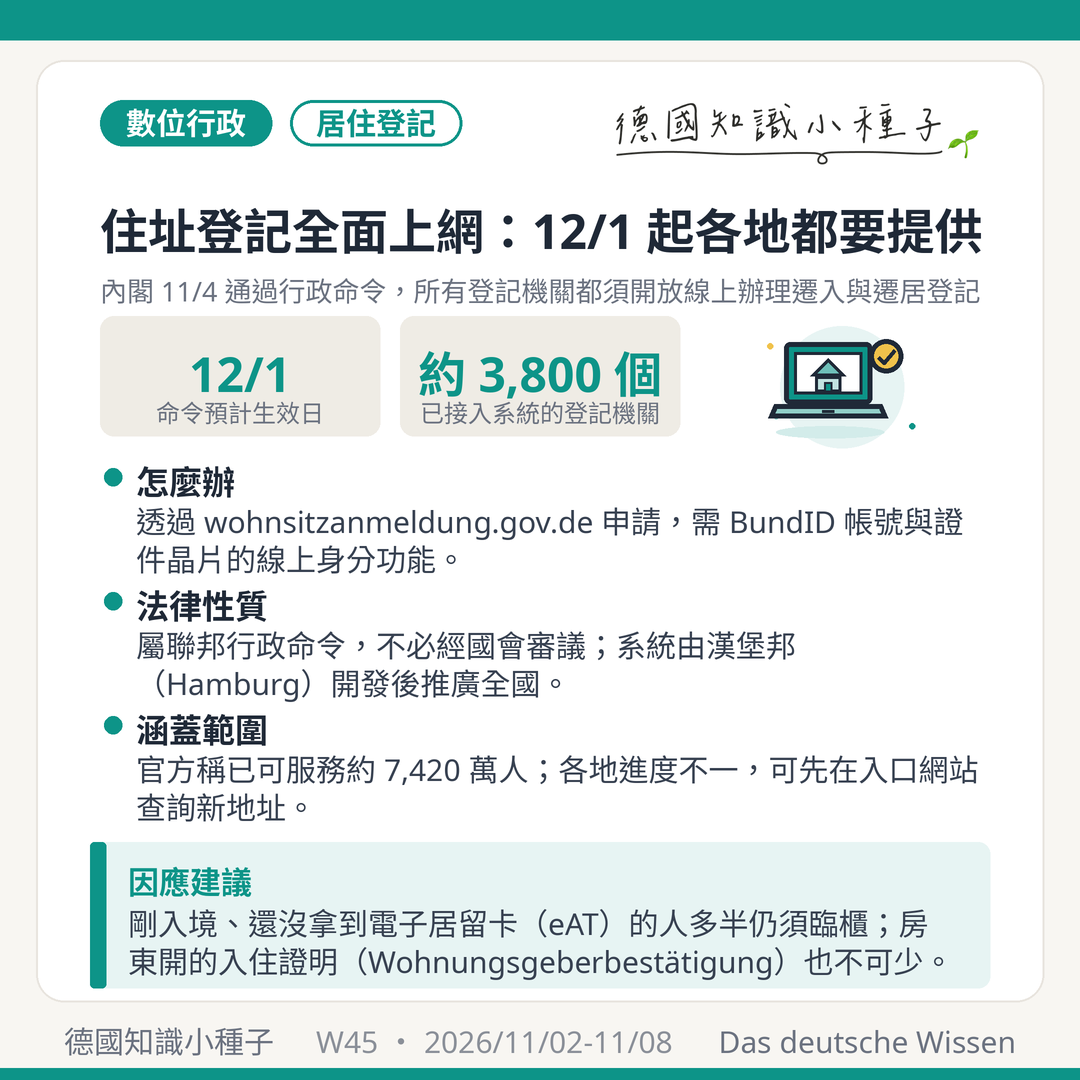
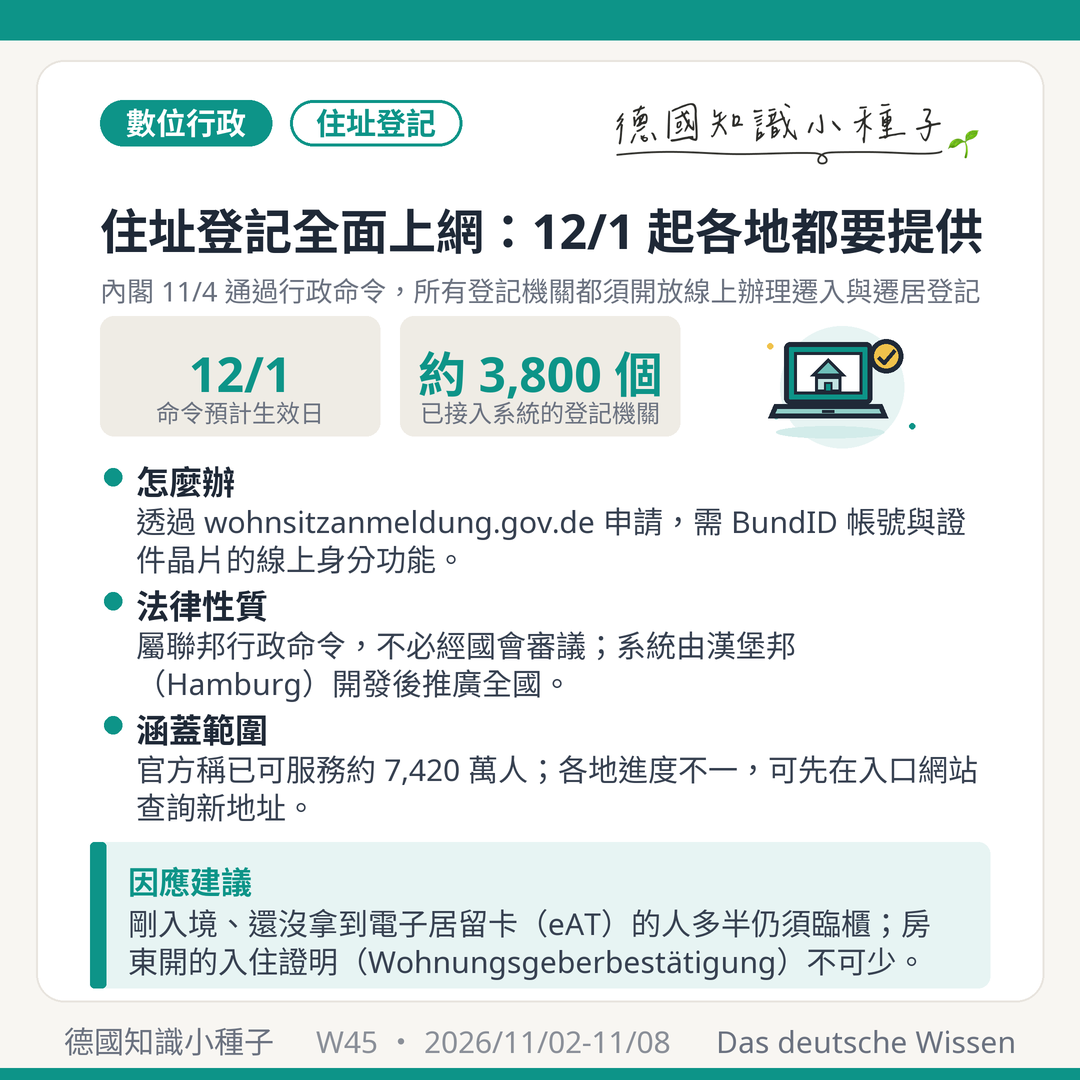
W45 更新：駕照改革 11/5 通過（生效日 2027/7/1、特殊路況課改不定趟數）＋卡1標籤統一＋排程改 11/7 21:30
- 卡4 重產並改名 W45_圖卡4_駕照改革通過.png：依 Tagesspiegel（dpa）、t-online 更正
  生效日（2027 年初 → 2027/7/1）、特殊路況課（12→3 趟 → 不再規定固定趟數）、補親友陪練條件
- 卡1 標籤「居住登記」→「住址登記」，與標題一致
- data.js：駕照段落改寫、補今日來源；卡1 補 eAT 適用說明；刪除卡5 無來源的推論句
- FB／IG／Threads 三版與 posts.json 同步；排程改 2026-11-07 21:30
- 重跑 build（weekly-digest.html、feed.xml、sitemap.xml）

diff --git a/posts/weekly-digest.html b/posts/weekly-digest.html
@@ -6,13 +6,13 @@
 <meta name="viewport" content="width=device-width, initial-scale=1.0" />
 <meta name="referrer" content="strict-origin-when-cross-origin" />
 <title>德國知識小種子週報精選 | 德國知識小種子</title>
-<meta name="description" content="先看日常：內閣 11 月 4 日通過行政命令，預計 12 月 1 日起全國所有登記機關都須透過 wohnsitzanmeldung.gov.de 提供線上住址登記（Anmeldung），已接入約 3,800 個機關、可服務約 7,420 萬人，持電子居留卡（eAT）者可用線上身分功能辦理；聯邦議院 11 月 5 日表決" />
+<meta name="description" content="先看日常：內閣 11 月 4 日通過行政命令，預計 12 月 1 日起全國所有登記機關都須透過 wohnsitzanmeldung.gov.de 提供線上住址登記（Anmeldung），已接入約 3,800 個機關、可服務約 7,420 萬人，持電子居留卡（eAT）者可用線上身分功能辦理；聯邦議院 11 月 5 日通過" />
 <meta name="robots" content="index, follow" />
 <link rel="canonical" href="https://taiwanese-in-germany.com/posts/weekly-digest.html" />
 <meta property="og:type" content="article" />
 <meta property="og:site_name" content="德國知識小種子 Das deutsche Wissen" />
 <meta property="og:title" content="德國知識小種子週報精選 | 德國知識小種子" />
-<meta property="og:description" content="先看日常：內閣 11 月 4 日通過行政命令，預計 12 月 1 日起全國所有登記機關都須透過 wohnsitzanmeldung.gov.de 提供線上住址登記（Anmeldung），已接入約 3,800 個機關、可服務約 7,420 萬人，持電子居留卡（eAT）者可用線上身分功能辦理；聯邦議院 11 月 5 日表決" />
+<meta property="og:description" content="先看日常：內閣 11 月 4 日通過行政命令，預計 12 月 1 日起全國所有登記機關都須透過 wohnsitzanmeldung.gov.de 提供線上住址登記（Anmeldung），已接入約 3,800 個機關、可服務約 7,420 萬人，持電子居留卡（eAT）者可用線上身分功能辦理；聯邦議院 11 月 5 日通過" />
 <meta property="og:url" content="https://taiwanese-in-germany.com/posts/weekly-digest.html" />
 <meta property="og:image" content="https://taiwanese-in-germany.com/assets/images/2026/weekly/W45_圖卡1_住址登記全面上網.png" />
 <meta property="og:locale" content="zh_TW" />
@@ -23,9 +23,9 @@
 <meta property="article:tag" content="時事" />
 <meta name="twitter:card" content="summary_large_image" />
 <meta name="twitter:title" content="德國知識小種子週報精選 | 德國知識小種子" />
-<meta name="twitter:description" content="先看日常：內閣 11 月 4 日通過行政命令，預計 12 月 1 日起全國所有登記機關都須透過 wohnsitzanmeldung.gov.de 提供線上住址登記（Anmeldung），已接入約 3,800 個機關、可服務約 7,420 萬人，持電子居留卡（eAT）者可用線上身分功能辦理；聯邦議院 11 月 5 日表決" />
+<meta name="twitter:description" content="先看日常：內閣 11 月 4 日通過行政命令，預計 12 月 1 日起全國所有登記機關都須透過 wohnsitzanmeldung.gov.de 提供線上住址登記（Anmeldung），已接入約 3,800 個機關、可服務約 7,420 萬人，持電子居留卡（eAT）者可用線上身分功能辦理；聯邦議院 11 月 5 日通過" />
 <meta name="twitter:image" content="https://taiwanese-in-germany.com/assets/images/2026/weekly/W45_圖卡1_住址登記全面上網.png" />
-<script type="application/ld+json">{"@context":"https://schema.org","@type":"BlogPosting","headline":"德國知識小種子週報精選","description":"先看日常：內閣 11 月 4 日通過行政命令，預計 12 月 1 日起全國所有登記機關都須透過 wohnsitzanmeldung.gov.de 提供線上住址登記（Anmeldung），已接入約 3,800 個機關、可服務約 7,420 萬人，持電子居留卡（eAT）者可用線上身分功能辦理；聯邦議院 11 月 5 日表決","image":"https://taiwanese-in-germany.com/assets/images/2026/weekly/W45_圖卡1_住址登記全面上網.png","url":"https://taiwanese-in-germany.com/posts/weekly-digest.html","datePublished":"2026-11-08","dateModified":"2026-11-08","author":{"@type":"Person","name":"德國知識小種子","url":"https://taiwanese-in-germany.com"},"publisher":{"@type":"Organization","name":"德國知識小種子 Das deutsche Wissen","url":"https://taiwanese-in-germany.com","logo":{"@type":"ImageObject","url":"https://taiwanese-in-germany.com/assets/logo.png"}},"mainEntityOfPage":{"@type":"WebPage","@id":"https://taiwanese-in-germany.com/posts/weekly-digest.html"},"inLanguage":"zh-TW","keywords":"週報, 德國政策, 時事"}</script>
+<script type="application/ld+json">{"@context":"https://schema.org","@type":"BlogPosting","headline":"德國知識小種子週報精選","description":"先看日常：內閣 11 月 4 日通過行政命令，預計 12 月 1 日起全國所有登記機關都須透過 wohnsitzanmeldung.gov.de 提供線上住址登記（Anmeldung），已接入約 3,800 個機關、可服務約 7,420 萬人，持電子居留卡（eAT）者可用線上身分功能辦理；聯邦議院 11 月 5 日通過","image":"https://taiwanese-in-germany.com/assets/images/2026/weekly/W45_圖卡1_住址登記全面上網.png","url":"https://taiwanese-in-germany.com/posts/weekly-digest.html","datePublished":"2026-11-08","dateModified":"2026-11-08","author":{"@type":"Person","name":"德國知識小種子","url":"https://taiwanese-in-germany.com"},"publisher":{"@type":"Organization","name":"德國知識小種子 Das deutsche Wissen","url":"https://taiwanese-in-germany.com","logo":{"@type":"ImageObject","url":"https://taiwanese-in-germany.com/assets/logo.png"}},"mainEntityOfPage":{"@type":"WebPage","@id":"https://taiwanese-in-germany.com/posts/weekly-digest.html"},"inLanguage":"zh-TW","keywords":"週報, 德國政策, 時事"}</script>
 <script type="application/ld+json">{"@context":"https://schema.org","@type":"BreadcrumbList","itemListElement":[{"@type":"ListItem","position":1,"name":"首頁","item":"https://taiwanese-in-germany.com/"},{"@type":"ListItem","position":2,"name":"德國時事","item":"https://taiwanese-in-germany.com/category.html?cat=%E5%BE%B7%E5%9C%8B%E6%99%82%E4%BA%8B"},{"@type":"ListItem","position":3,"name":"德國知識小種子週報精選","item":"https://taiwanese-in-germany.com/posts/weekly-digest.html"}]}</script>
 <link rel="stylesheet" href="/css/style.css" />
 <link rel="alternate" type="application/rss+xml" title="德國知識小種子 RSS" href="/feed.xml" />
@@ -132,14 +132,14 @@
     <div class="post-header__meta">
       <span>2026年11月8日 發布</span>
       <span class="post-header__sep">·</span>
-      <span>532 分鐘閱讀</span>
+      <span>533 分鐘閱讀</span>
     </div>
     <hr class="post-header__divider" />
   </header>
   <article class="post-content"><nav class="post-toc" aria-label="本篇目錄">
   <p class="post-toc__title">快速跳轉</p>
   <ul>
-    <li><a href="#nov2-8">11月2日–8日：住址登記全面上網（內閣 11/4 通過行政命令、預計 12/1 生效，所有登記機關須開放線上遷入與遷居登記，已接入約 3,800 個機關、需 BundID 與線上身分功能）、Schaeffler 再減 2,660 個職位並關閉德國四處據點（歐洲共減 3,460 個職位、原則上不做經營性解僱、2030 年起每年省 3 億歐元、董事會自減 10% 薪資，汽車業就業 69.15 萬人創 2005 年來新低）、油價上限法草案（須連三週高於其他歐盟國家平均 5 個百分點以上才啟動、每次最長 3 個月，bft 與 DGB 都批評；燃油稅減免 12/31 到期）、駕照改革進入院會表決（平均約 3,400 €，理論課可線上、特殊路況課 12 趟改 3 趟、親友可陪練）、西巴爾幹工作名額減半（每年 5 萬降到 2.5 萬、2027 年起適用，營建業估少約 9,000 人）</a></li>
+    <li><a href="#nov2-8">11月2日–8日：住址登記全面上網（內閣 11/4 通過行政命令、預計 12/1 生效，所有登記機關須開放線上遷入與遷居登記，已接入約 3,800 個機關、需 BundID 與線上身分功能）、Schaeffler 再減 2,660 個職位並關閉德國四處據點（歐洲共減 3,460 個職位、原則上不做經營性解僱、2030 年起每年省 3 億歐元、董事會自減 10% 薪資，汽車業就業 69.15 萬人創 2005 年來新低）、油價上限法草案（須連三週高於其他歐盟國家平均 5 個百分點以上才啟動、每次最長 3 個月，bft 與 DGB 都批評；燃油稅減免 12/31 到期）、駕照改革通過（平均約 3,400 €，理論課可線上、特殊路況課不再規定 12 趟、親友可陪練，主要新規 2027/7/1 生效）、西巴爾幹工作名額減半（每年 5 萬降到 2.5 萬、2027 年起適用，營建業估少約 9,000 人）</a></li>
     <li><a href="#oct26-nov1">10月26日–11月1日：十一月新制（11/1 起歐盟外小包裹在 3 € 定額關稅之外每種商品再加收 2 € 處理費、11/20 起「先買後付」與 200 € 以下小額貸款須審查信用、德鐵家庭票常態化最多 5 人 IC／ICE 來回 99.99 €、汽車保險換約解約信須 11/30 前送達）、金屬電機業 11/1 起可發動警告性罷工（約 370 萬名員工，資方 10/27 首度出價 2027 年一次性給付與 2028 年 7 月調薪 1.3%，IG Metall 要求 12 個月加薪 5%）、賓士下修財測（第三季中國銷量年減 31%、轎車利潤率目標從 3–5% 降到 2–3%，12 月起再以資遣方案縮減數千個行政職位）、德日聯合聲明重申台海和平穩定（Merz 10/26–30 訪新加坡、日本、南韓，與高市早苗簽署關鍵原物料意向書；Steinmeier 同週國事訪問中國、促習近平縮減貿易順差）、景氣回溫（十月通膨初值降到 2.8%、第三季 GDP 季增 0.2%、ifo 景氣指數連升第六個月到 90.2 點）、核廢料最終處置場候選範圍縮到國土 5% 以下（BGE 10/27 公布、5 個邦完全出局、2027 年底提出候選區域）</a></li>
     <li><a href="#oct19-25">10月19日–25日：週日凌晨調回冬令時間（10/25 凌晨 3:00 撥回 2:00、台德時差變 7 小時，歐盟廢除案 2019 年起卡在理事會）、明年瓦斯費恐漲 10–20%（九月生產者物價年增 6.7% 為 2023 年 3 月以來最大、能源年增 14.9%，Verivox 預估 1 月起依方案調漲、年用 2 萬度家庭多付 250–500 €，基本供應調價須 11/20 前通知）、柏林擬將大房東約 16 萬戶收歸公有（柏林邦〔Berlin〕SPD 與綠黨 10/19 同意與左翼黨組閣談判，持有逾 1 萬戶的企業超出部分依基本法第 15 條轉為公有、補償金上限 160 億歐元，Vonovia 稱違憲）、福斯傳凍薪到 2030 年（《南德日報》10/19 披露、IG Metall 證實，全球約 66 萬名員工，公司不評論；金屬電機業和平義務 10/31 到期）、Bosch 汽車事業拆成子公司（10/22 宣布 Mobility 與三個中央服務單位改組為 4 家全資子公司、約 6.25 萬名在德員工 2027/8/1 移轉，不另外裁員）、45 年免扣減退休的育兒與照護年資恐不再採計（聯盟黨構想、SPD 反對，退休改革恐延到 2027 年）、菸稅漲價法因條文疏失 10/21 提前生效（海關暫不執行、菸價暫不變；2030 年一包約 11.78 €）、投資高峰會企業承諾約 2,300 億歐元（經濟部統計 2,286 億歐元、不少為舊案）</a></li>
     <li><a href="#oct12-18">10月12日–18日：健保附加保費 2027 年預估維持 2.9%（健保估算小組 10/14 公布，但各健保公司實際平均已達約 3.13%，調漲時可行使特別終止權）、早鳥退休金 10/16 三讀通過（國家從孩子 6 歲起每月存 10 €、合計 1,440 €，2020 年出生者最先納入，仍待聯邦參議院）、含糖飲料稅 10/14 過內閣（每 100 毫升含糖 5 公克以上每公升 26 歐分、8 公克以上 32 歐分，2027 年 7 月 1 日上路、稅收用於穩定健保）、BMW 自願離職方案開跑（2027 年底前全球縮約 8,000 個職位、據報約 4 萬名德國員工可查看方案；賓士傳 12 月重啟第二輪、福斯終止十份團體協約）、北溪管線爆炸案 10/14 在漢堡開審（烏克蘭籍被告 Serhij K.，辯方主張職務豁免）、聯邦國防軍衛勤團 10 人涉毒品與性不當行為遭調查（薩克森-安哈特邦〔Sachsen-Anhalt〕Weißenfels 駐地）</a></li>
@@ -173,14 +173,14 @@
   </ul>
 </nav>
 
-<h2 id="nov2-8">11月2日–8日：住址登記全面上網（內閣 11/4 通過行政命令、預計 12/1 生效，所有登記機關須開放線上遷入與遷居登記，已接入約 3,800 個機關）、Schaeffler 再減 2,660 個職位並關閉德國四處據點（歐洲共減 3,460 個職位、原則上不做經營性解僱、2030 年起每年省 3 億歐元，董事會自減 10% 薪資）、油價上限法草案出爐（須連續三週高於其他歐盟國家平均 5 個百分點以上才啟動、每次最長 3 個月，DGB 與加油站業者同聲批評）、駕照改革進入表決（平均花費約 3,400 €，理論課可線上、12 趟特殊路況課改為 3 趟、親友可陪練）、西巴爾幹工作名額減半（每年 5 萬降到 2.5 萬、2027 年起適用，營建業估少約 9,000 人）</h2>
-<p>這週有兩件和<strong>日常生活</strong>直接相關的行政改革：內閣 11 月 4 日通過命令，要求全國所有登記機關從 12 月起都得提供<strong>線上住址登記（Anmeldung）</strong>；聯邦議院則在 11 月 5 日表決<strong>駕照改革</strong>，目標是把平均約 3,400 € 的考照費用壓下來。<strong>汽車產業</strong>再傳裁員：供應商 Schaeffler 11 月 3 日宣布在德國再減 2,660 個職位、關閉四處據點，而聯邦統計局數據顯示，汽車業就業已降到 2005 年有統計以來最低。<strong>荷包方面</strong>，經濟部的《燃料最高價格法》草案曝光，但啟動門檻之高讓工會與業者都質疑它「幾乎不會生效」；眼前更有感的反而是燃油稅減免 12 月底到期。最後，內閣也不顧經濟界、聯邦勞動署與七個邦反對，把西巴爾幹國家的工作名額砍半。</p>
+<h2 id="nov2-8">11月2日–8日：住址登記全面上網（內閣 11/4 通過行政命令、預計 12/1 生效，所有登記機關須開放線上遷入與遷居登記，已接入約 3,800 個機關）、Schaeffler 再減 2,660 個職位並關閉德國四處據點（歐洲共減 3,460 個職位、原則上不做經營性解僱、2030 年起每年省 3 億歐元，董事會自減 10% 薪資）、油價上限法草案出爐（須連續三週高於其他歐盟國家平均 5 個百分點以上才啟動、每次最長 3 個月，DGB 與加油站業者同聲批評）、駕照改革通過（平均花費約 3,400 €，理論課可線上、特殊路況課不再規定 12 趟、親友可陪練）、西巴爾幹工作名額減半（每年 5 萬降到 2.5 萬、2027 年起適用，營建業估少約 9,000 人）</h2>
+<p>這週有兩件和<strong>日常生活</strong>直接相關的行政改革：內閣 11 月 4 日通過命令，要求全國所有登記機關從 12 月起都得提供<strong>線上住址登記（Anmeldung）</strong>；聯邦議院則在 11 月 5 日通過<strong>駕照改革</strong>，目標是把平均約 3,400 € 的考照費用壓下來。<strong>汽車產業</strong>再傳裁員：供應商 Schaeffler 11 月 3 日宣布在德國再減 2,660 個職位、關閉四處據點，而聯邦統計局數據顯示，汽車業就業已降到 2005 年有統計以來最低。<strong>荷包方面</strong>，經濟部的《燃料最高價格法》草案曝光，但啟動門檻之高讓工會與業者都質疑它「幾乎不會生效」；眼前更有感的反而是燃油稅減免 12 月底到期。最後，內閣也不顧經濟界、聯邦勞動署與七個邦反對，把西巴爾幹國家的工作名額砍半。</p>
 
 <img src="/assets/images/2026/weekly/W45_圖卡1_住址登記全面上網.png" alt="德國住址登記全面上網 Elektronische Wohnsitzanmeldung 聯邦內閣2026年11月4日通過IT元件命令IT-Komponentenverordnung 預計12月1日生效 所有登記機關Meldebehörde須透過wohnsitzanmeldung.gov.de提供線上遷入與遷居登記 已接入約3800個登記機關 可服務約7420萬人 需BundID帳號與線上身分功能Online-Ausweis 系統由漢堡邦Hamburg開發 電子居留卡eAT 入住證明Wohnungsgeberbestätigung">
 <h3>住址登記全面上網：12 月 1 日起，各地登記機關都要提供線上 Anmeldung</h3>
 <p><strong>發生什麼事：</strong>搬家後兩週內要辦的住址登記（Anmeldung／Ummeldung），一直是在德生活最常碰到、也最難預約的行政手續之一。聯邦內閣 <strong>11 月 4 日</strong>通過由數位部長 Wildberger 提出的<strong>「IT 元件命令」（IT-Komponentenverordnung）</strong>，要求全國<strong>所有登記機關（Meldebehörde）</strong>都必須透過入口網站 <strong>wohnsitzanmeldung.gov.de</strong> 提供線上遷入與遷居登記。命令預計 <strong>12 月 1 日</strong>生效；因為是聯邦行政命令，不必經聯邦議院與聯邦參議院審議。</p>
 <p><strong>現在做到哪裡：</strong>這套系統由<strong>漢堡邦（Hamburg）</strong>開發，依各邦「一處開發、全國共用」（Einer für Alle）的分工推廣。漢堡邦政府 5 月公布時約 6,276 萬人可以使用；依這次的官方說法，系統已接入<strong>逾 3,800 個登記機關、可服務約 7,420 萬人</strong>。不過各地上線進度仍不一致，也有媒體引述入口網站資料，指仍有相當比例的登記機關尚未加入；命令生效後，何時真正「每一處都能用」，官方並未給出確切日期。最實際的做法是先到入口網站輸入新地址，查詢是否已經支援。</p>
-<p><strong>怎麼用、誰能用：</strong>線上辦理需要 <strong>BundID 帳號</strong>，並以證件晶片的<strong>線上身分功能（Online-Ausweis）</strong>驗證身分。德國身分證、歐盟公民的 eID 卡，以及非歐盟公民的<strong>電子居留卡（eAT）</strong>都有這項晶片功能，但需先啟用並設定 PIN 碼。換句話說，<strong>已經持有電子居留卡、在德國境內搬家的人</strong>最能受惠；<strong>剛入境、手上只有護照與簽證的人</strong>，多半仍須預約臨櫃辦理首次登記。此外，房東或屋主開立的<strong>入住證明（Wohnungsgeberbestätigung）</strong>是法定文件，線上辦理同樣不能少。</p>
+<p><strong>怎麼用、誰能用：</strong>線上辦理需要 <strong>BundID 帳號</strong>，並以證件晶片的<strong>線上身分功能（Online-Ausweis）</strong>驗證身分。德國身分證、歐盟公民的 eID 卡，以及非歐盟公民的<strong>電子居留卡（eAT）</strong>都有這項晶片功能，但需先啟用並設定 PIN 碼。柏林等地的說明已明列可用電子居留卡，但也有不少登記機關的說明只寫到身分證與 eID 卡，辦理前最好先確認新住址所屬的機關是否接受。換句話說，<strong>已經持有電子居留卡、在德國境內搬家的人</strong>最能受惠；<strong>剛入境、手上只有護照與簽證的人</strong>，多半仍須預約臨櫃辦理首次登記。此外，房東或屋主開立的<strong>入住證明（Wohnungsgeberbestätigung）</strong>是法定文件，線上辦理同樣不能少。</p>
 <p><strong>因應建議：</strong>住址登記會連動稅籍編號（Steuer-ID）寄送、銀行開戶與居留手續，線上化最大的好處是不必再搶預約名額。若打算年底前後搬家，可先確認電子居留卡的線上身分功能是否已啟用、PIN 是否還記得——忘記 PIN 多半得回發證機關重設，反而會多跑一趟。</p>
 <p class="post-sources">📚 來源：<a href="https://www.zdfheute.de/politik/deutschland/digitale-wohnsitzanmeldung-deutschland-100.html" target="_blank" rel="noopener noreferrer">ZDFheute：Kabinett: Bundesweite digitale Wohnsitzanmeldung beschlossen</a> · <a href="https://www.bundesregierung.de/breg-de/aktuelles/digitale-wohnsitz-anmeldung-2459770" target="_blank" rel="noopener noreferrer">聯邦政府：Kabinett ermöglicht bundesweit digitale Wohnsitzanmeldung</a> · <a href="https://www.presseportal.de/pm/175486/6384137" target="_blank" rel="noopener noreferrer">Presseportal：Elektronische Wohnsitzanmeldung – ein Dienst für alle</a> · <a href="https://www.hamburg.de/politik-und-verwaltung/behoerden/senatskanzlei/aktuelles/pressemeldungen/elektronische-wohnsitzanmeldung-fuer-75-prozent-der-bevoelkerung-verfuegbar-1171960" target="_blank" rel="noopener noreferrer">漢堡邦政府：Elektronische Wohnsitzanmeldung für 75 Prozent der Bevölkerung verfügbar</a></p>
 
@@ -200,18 +200,18 @@
 <p><strong>觀察重點：</strong>對開車族而言，比草案更近、更確定的是<strong>燃油稅減免到期</strong>：聯邦議院 9 月通過、10 月 1 日起每公升調降 14.04 分（含加值稅約 17 分）的減稅只適用到 <strong>12 月 31 日</strong>（見本站 <a href="#sep21-27">W39</a>），1 月起稅額就會回升。上一輪減稅時，柴油的降幅只有一部分真的反映在油價上；稅額回升時，漲價是否會「更完整」地轉嫁，值得留意。</p>
 <p class="post-sources">📚 來源：<a href="https://www.lto.de/recht/nachrichten/n/spritpreisdeckel-geplant-wirtschaftsministerium-reiche-kraftstoffhoechstpreisgesetz" target="_blank" rel="noopener noreferrer">LTO：Spritpreisdeckel – Erster Entwurf mit strengen Voraussetzungen</a> · <a href="https://www.auto-motor-und-sport.de/verkehr/spritpreisdeckel-ab-2027-das-sind-die-ersten-details-sie-sind-ernuechternd/" target="_blank" rel="noopener noreferrer">auto motor und sport：Spritpreisdeckel ab 2027 – die ersten Details</a> · <a href="https://www.tankstelle-magazin.de/bft-geplanter-spritpreisdeckel-wird-zum-buerokratiemonster/" target="_blank" rel="noopener noreferrer">tankstelle Magazin：bft – Spritpreisdeckel wird „zum Bürokratiemonster"</a> · <a href="https://www.autobild.de/artikel/kritik-am-gesetzesentwurf-zum-gedeckelten-spritpreis-28877561.html" target="_blank" rel="noopener noreferrer">AUTO BILD：Hält der „Spritpreisdeckel", was er verspricht?</a></p>
 
-<img src="/assets/images/2026/weekly/W45_圖卡4_駕照改革院會表決.png" alt="德國駕照改革Führerscheinreform 修正駕訓教練法Fahrlehrergesetz 聯邦議院交通委員會2026年11月4日通過修正版 11月5日院會表決 目前考駕照平均約3400歐元 部分地區約4500歐元 理論課可線上不必到班 法定特殊路況駕駛Sonderfahrten由12趟改為高速公路Autobahn郊區Überland夜間各一趟 不可用模擬器代替 親友陪練Laienausbildung限小客車 ADAC支持 駕訓教練協會質疑 AfD 綠黨Grüne 左翼黨Die Linke反對">
-<h3>駕照改革進入院會表決：平均 3,400 € 的考照費要降價，理論課可線上、親友可陪練</h3>
-<p><strong>為何要改：</strong>在德國考一張小客車（B 類）駕照，平均要花<strong>約 3,400 €</strong>，部分地區甚至達到約 4,500 €，對年輕人與新移民都是一筆大開銷。聯邦政府今年夏天通過《駕訓教練法》（Fahrlehrergesetz）等交通法規的修正草案（當時由前交通部長 Schnieder 提出，7 月內閣改組後由 Bilger 接任），目標是讓考照<strong>更便宜、更數位，同時維持安全</strong>，並減輕駕訓班的行政負擔。聯邦議院<strong>交通委員會 11 月 4 日</strong>以聯盟黨與 SPD 的票數通過修正版，<strong>11 月 5 日</strong>送院會表決；若聯邦議院與聯邦參議院的程序順利，新規最快 <strong>2027 年初</strong>上路。</p>
-<p><strong>主要改變：</strong>①<strong>理論課數位化</strong>：不必再到駕訓班現場上課，可改線上進行；路考時間也將縮短。②<strong>特殊路況駕駛（Sonderfahrten）大幅精簡</strong>：現行法定的 12 趟（郊區、高速公路、夜間）改為<strong>高速公路、郊區、夜間各一趟</strong>，且不能用模擬器代替；整體練車節數也不再由法律明訂。③<strong>親友陪練（Laienausbildung）</strong>：委員會修正後，由各邦建立條件，讓學員在嚴格規範下由父母等近親陪同上路練習，僅限小客車，並須評估成效。④<strong>價格透明</strong>：駕訓班須公開各分校的價格；原本要公開各駕訓班通過率的規定則在委員會被刪除。</p>
-<p><strong>各方觀點：</strong>ADAC 與貨運物流業公會支持草案；駕訓教練協會（Bundesvereinigung der Fahrlehrerverbände）副主席 Bartels 則表示，看不出政府「可省下 1,000 €」的算法從何而來，交通安全專家也對改革持保留態度。<strong>AfD、綠黨（Grüne）與左翼黨（Die Linke）</strong>在委員會投下反對票；AfD 另提「1 € 駕照」動議。改革是否真的讓價格下降、又不損及交通安全，委員會要求以學術研究追蹤。<em>（本文撰寫時院會尚未表決，結果請以聯邦議院公告為準。）</em></p>
-<p class="post-sources">📚 來源：<a href="https://www.bundestag.de/presse/hib/kurzmeldungen-1231170" target="_blank" rel="noopener noreferrer">聯邦議院 hib：Grünes Licht für Reform des Führerscheins</a> · <a href="https://www.bundestag.de/dokumente/textarchiv/2026/kw45-de-fahrlehrergesetz-1230606" target="_blank" rel="noopener noreferrer">聯邦議院：Abstimmung über Änderung des Fahrlehrergesetzes</a> · <a href="https://www.zdfheute.de/politik/deutschland/fuehrerschein-auto-kosten-schnieder-fahrschule-100.html" target="_blank" rel="noopener noreferrer">ZDFheute：Führerschein soll günstiger werden – das ist geplant</a> · <a href="https://www.t-online.de/finanzen/aktuelles/id_101513606/reform-im-bundestag-wird-der-fuehrerschein-guenstiger-.html" target="_blank" rel="noopener noreferrer">t-online：Reform im Bundestag – Wird der Führerschein günstiger?</a></p>
+<img src="/assets/images/2026/weekly/W45_圖卡4_駕照改革通過.png" alt="德國駕照改革Führerscheinreform 修正道路交通法與駕訓教練法Fahrlehrergesetz 聯邦議院2026年11月5日通過 主要新規2027年7月1日生效 仍待聯邦參議院Bundesrat同意 目前考駕照平均約3400歐元 理論課可全程線上 路考駕駛時間縮短5分鐘 特殊路況駕駛Sonderfahrten不再規定12趟 由教練依學員程度決定 親友陪練Laienausbildung須考過理論並上滿6堂課 陪練者駕照滿7年 交通部長Bilger稱最多省1000歐元 駕訓教練協會認為不切實際 AfD 綠黨Grüne 左翼黨Die Linke反對">
+<h3>聯邦議院通過駕照改革：目標壓低平均 3,400 € 的考照費，主要新規 2027 年 7 月 1 日生效</h3>
+<p><strong>為何要改：</strong>在德國考一張小客車（B 類）駕照，平均要花<strong>約 3,400 €</strong>，部分地區甚至達到約 4,500 €，對年輕人與新移民都是一筆大開銷。聯邦政府今年夏天通過《駕訓教練法》（Fahrlehrergesetz）等交通法規的修正草案（當時由前交通部長 Schnieder 提出，7 月內閣改組後由 Bilger 接任），目標是讓考照<strong>更便宜、更數位，同時維持安全</strong>，並減輕駕訓班的行政負擔。聯邦議院<strong>交通委員會 11 月 4 日</strong>通過修正版後，院會於 <strong>11 月 5 日</strong>以聯盟黨與 SPD 的票數通過道路交通法與《駕訓教練法》的修正（改革的第一部分）。主要新規預計 <strong>2027 年 7 月 1 日</strong>生效，比原訂的 2027 年初晚半年；法律修正與交通部負責駕訓、考試細節的行政命令都還須<strong>聯邦參議院</strong>同意，改革的第二部分也還在後頭。</p>
+<p><strong>主要改變：</strong>①<strong>理論課數位化</strong>：不必再到駕訓班現場上課，可全程線上（例如用 App）學習，題庫也會縮減；B 類路考的駕駛時間從 30 分鐘減為 25 分鐘、整場考試從 55 分鐘減為 40 分鐘，以縮短排考等待。②<strong>特殊路況駕駛（Sonderfahrten）不再規定趟數</strong>：現行法定 12 趟、每趟 45 分鐘的郊區、高速公路與夜間駕駛仍要練，但<strong>不再有固定趟數</strong>，改由駕訓教練依學員程度判斷；這部分屬交通部的行政命令，須聯邦參議院同意。③<strong>親友陪練（Laienausbildung）</strong>：學員<strong>考過理論、在駕訓班上滿 6 堂課</strong>後，可由駕照滿 7 年、Flensburg 記點不超過 1 點、與學員關係密切的人（如父母）陪同上路練習，僅限小客車；但須<strong>各邦另訂命令</strong>才會實施，等於由 16 個邦各自決定要不要開放。④<strong>價格透明</strong>：駕訓班須公開各分校的價格；原本要公開各駕訓班通過率的規定則在委員會被刪除。</p>
+<p><strong>各方觀點：</strong>交通部長 Bilger（CDU）表示，學員可省下數百歐元、最好的情況可省到 1,000 €；ADAC 估計考照費最多可降三分之一。駕訓教練協會（Bundesvereinigung der Fahrlehrerverbände）的 Bartels 則認為，以目前的設計省 1,000 € 並不實際；SPD 議員 Reichardt 在院會也坦言，能便宜多少還看不出來；左翼黨（Die Linke）議員 Bosch 指出，車輛與營運成本、練車節數多、考不過重考等主要成本都沒有被處理。<strong>AfD、綠黨（Grüne）與左翼黨</strong>投下反對票。能省多少，很大程度取決於各邦在聯邦參議院如何修訂行政命令、以及駕訓班的實際定價；改革是否在降價之餘不損及交通安全，也將以學術研究追蹤。</p>
+<p class="post-sources">📚 來源：<a href="https://www.bundestag.de/presse/hib/kurzmeldungen-1231170" target="_blank" rel="noopener noreferrer">聯邦議院 hib：Grünes Licht für Reform des Führerscheins</a> · <a href="https://www.bundestag.de/dokumente/textarchiv/2026/kw45-de-fahrlehrergesetz-1230606" target="_blank" rel="noopener noreferrer">聯邦議院：Abstimmung über Änderung des Fahrlehrergesetzes</a> · <a href="https://www.zdfheute.de/politik/deutschland/fuehrerschein-auto-kosten-schnieder-fahrschule-100.html" target="_blank" rel="noopener noreferrer">ZDFheute：Führerschein soll günstiger werden – das ist geplant</a> · <a href="https://www.t-online.de/mobilitaet/aktuelles/id_101513606/fuehrerschein-reform-beschlossen-soviel-guenstiger-soll-er-werden.html" target="_blank" rel="noopener noreferrer">t-online：Führerschein-Reform beschlossen – soviel günstiger soll er werden</a> · <a href="https://www.tagesspiegel.de/wirtschaft/dpa-teure-fahrerlaubnis-bundestag-stimmt-reform-zu-wird-fuhrerschein-gunstiger-16243404.html" target="_blank" rel="noopener noreferrer">Tagesspiegel（dpa）：Bundestag stimmt Reform zu – wird Führerschein günstiger?</a></p>
 
 <img src="/assets/images/2026/weekly/W45_圖卡5_西巴爾幹名額減半.png" alt="德國西巴爾幹規定Westbalkanregelung工作名額減半 聯邦內閣2026年11月4日通過勞動部長Schweitzer命令 每年核准上限由5萬降到2.5萬 2027年1月起適用 仍待聯邦參議院Bundesrat同意 適用阿爾巴尼亞 波士尼亞與赫塞哥維納 科索沃 蒙特內哥羅 北馬其頓 塞爾維亞 營建業估少約9000人 經濟團體 聯邦勞動署 七個邦反對 HDE 2025年名額用罄12月約1.8萬件申請被拒 2026年9月約54.6萬名六國公民在德就業">
 <h3>西巴爾幹工作名額減半：每年 5 萬降到 2.5 萬，經濟界、聯邦勞動署與七個邦都反對</h3>
 <p><strong>什麼是西巴爾幹規定：</strong>「西巴爾幹規定」（Westbalkanregelung）讓<strong>阿爾巴尼亞、波士尼亞與赫塞哥維納、科索沃、蒙特內哥羅、北馬其頓、塞爾維亞</strong>六國公民，只要有德國雇主的工作合約，就能<strong>不必具備德國認可的職業資格</strong>來德工作，是營建、餐旅、零售等產業重要的人力來源。聯邦內閣 <strong>11 月 4 日</strong>通過勞動部長 Schweitzer 提出的命令，把每年核准上限從 <strong>5 萬人降到 2.5 萬人</strong>，<strong>2027 年 1 月</strong>起適用；這項減半早已寫在聯盟黨與 SPD 的執政協議中。命令仍須<strong>聯邦參議院</strong>同意，最快 12 月審議；在修正生效前，仍適用 5 萬人的上限。</p>
 <p><strong>反對聲浪：</strong>依內閣提案資料，反對者包括主要經濟團體、國家法規審查委員會（Normenkontrollrat）、<strong>聯邦勞動署</strong>與<strong>七個邦</strong>。聯邦勞動署警告減半會加劇專業人力短缺；德國營建業總會（ZDB）估計，營建業將因此少掉<strong>近 9,000 名</strong>工人，要求撤回；零售業公會 HDE 則反向主張乾脆<strong>取消名額上限</strong>，並把申請流程數位化。</p>
-<p><strong>數據解讀：</strong>這套管道並非乏人問津——依聯邦勞動署資料，名額在 <strong>2025 年就已用罄</strong>，當年 12 月約 <strong>1.8 萬件</strong>申請被拒；今年 9 月，約 <strong>54.6 萬名</strong>六國公民在德國從事須繳社會保險的工作。雇主團體 BDA 則指出，另一個短期就業名額在 2025 年底仍有近 1 萬個沒用完，顯示不同管道的需求並不一致。依目前公布的內容，名額管控的是每年新核發的同意數；已在德國工作、持有效居留的人，宜留意續簽或換雇主時是否會受新上限影響。</p>
+<p><strong>數據解讀：</strong>這套管道並非乏人問津——依聯邦勞動署資料，名額在 <strong>2025 年就已用罄</strong>，當年 12 月約 <strong>1.8 萬件</strong>申請被拒；今年 9 月，約 <strong>54.6 萬名</strong>六國公民在德國從事須繳社會保險的工作。雇主團體 BDA 則指出，另一個短期就業名額在 2025 年底仍有近 1 萬個沒用完，顯示不同管道的需求並不一致。</p>
 <p class="post-sources">📚 來源：<a href="https://www.onvista.de/news/2026/11-04-bundesregierung-halbiert-westbalkan-kontingent-trotz-breiter-kritik-0-20-26572316" target="_blank" rel="noopener noreferrer">onvista（Reuters）：Bundesregierung halbiert Westbalkan-Kontingent trotz breiter Kritik</a> · <a href="https://www.handwerksblatt.de/betriebsfuehrung/bundeskabinett-beschliesst-westbalkan-regelung-zuwanderung-wird-halbiert" target="_blank" rel="noopener noreferrer">Handwerksblatt：Westbalkan-Regelung – Zuwanderung wird halbiert</a> · <a href="https://www.migazin.de/2026/10/18/westbalkanregelung-regierung-will-zuzug-halbieren/" target="_blank" rel="noopener noreferrer">MiGAZIN：Bundesregierung will Kontingent halbieren</a> · <a href="https://rheinland.hv-nrw.de/blog/2026/10/28/erfolgsmodell-westbalkanregelung-hde-warnt-vor-halbierung-des-kontingents/" target="_blank" rel="noopener noreferrer">Handelsverband NRW：HDE warnt vor Halbierung des Kontingents</a></p>
 
 <hr>

diff --git a/js/data.js b/js/data.js
@@ -1298,14 +1298,14 @@ const POSTS = [
     date: '2026-11-08',
     categories: ['德國時事'],
     tags: ['週報', '德國政策', '時事'],
-    excerpt: '先看日常：內閣 11 月 4 日通過行政命令，預計 12 月 1 日起全國所有登記機關都須透過 wohnsitzanmeldung.gov.de 提供線上住址登記（Anmeldung），已接入約 3,800 個機關、可服務約 7,420 萬人，持電子居留卡（eAT）者可用線上身分功能辦理；聯邦議院 11 月 5 日表決駕照改革，目標壓低平均約 3,400 € 的考照費，理論課可線上、12 趟特殊路況課改為高速公路／郊區／夜間各一趟、親友可在嚴格條件下陪練。汽車業方面，供應商 Schaeffler 11 月 3 日宣布在德國再減 2,660 個職位、關閉多特蒙德、Morbach、柏林與 Schwalbach 四處據點，汽車業就業已降到 2005 年以來最低。經濟部《燃料最高價格法》草案須油價連三週高於其他歐盟國家平均 5 個百分點以上才啟動，DGB 與加油站業者都批評；燃油稅減免則在 12 月 31 日到期。內閣另不顧經濟界、聯邦勞動署與七個邦反對，把西巴爾幹工作名額從每年 5 萬砍到 2.5 萬。',
+    excerpt: '先看日常：內閣 11 月 4 日通過行政命令，預計 12 月 1 日起全國所有登記機關都須透過 wohnsitzanmeldung.gov.de 提供線上住址登記（Anmeldung），已接入約 3,800 個機關、可服務約 7,420 萬人，持電子居留卡（eAT）者可用線上身分功能辦理；聯邦議院 11 月 5 日通過駕照改革，目標壓低平均約 3,400 € 的考照費，理論課可線上、特殊路況課不再規定 12 趟、親友可在嚴格條件下陪練，主要新規 2027 年 7 月 1 日生效。汽車業方面，供應商 Schaeffler 11 月 3 日宣布在德國再減 2,660 個職位、關閉多特蒙德、Morbach、柏林與 Schwalbach 四處據點，汽車業就業已降到 2005 年以來最低。經濟部《燃料最高價格法》草案須油價連三週高於其他歐盟國家平均 5 個百分點以上才啟動，DGB 與加油站業者都批評；燃油稅減免則在 12 月 31 日到期。內閣另不顧經濟界、聯邦勞動署與七個邦反對，把西巴爾幹工作名額從每年 5 萬砍到 2.5 萬。',
 
     emoji: '🌱',
     content: `
 <nav class="post-toc" aria-label="本篇目錄">
   <p class="post-toc__title">快速跳轉</p>
   <ul>
-    <li><a href="#nov2-8">11月2日–8日：住址登記全面上網（內閣 11/4 通過行政命令、預計 12/1 生效，所有登記機關須開放線上遷入與遷居登記，已接入約 3,800 個機關、需 BundID 與線上身分功能）、Schaeffler 再減 2,660 個職位並關閉德國四處據點（歐洲共減 3,460 個職位、原則上不做經營性解僱、2030 年起每年省 3 億歐元、董事會自減 10% 薪資，汽車業就業 69.15 萬人創 2005 年來新低）、油價上限法草案（須連三週高於其他歐盟國家平均 5 個百分點以上才啟動、每次最長 3 個月，bft 與 DGB 都批評；燃油稅減免 12/31 到期）、駕照改革進入院會表決（平均約 3,400 €，理論課可線上、特殊路況課 12 趟改 3 趟、親友可陪練）、西巴爾幹工作名額減半（每年 5 萬降到 2.5 萬、2027 年起適用，營建業估少約 9,000 人）</a></li>
+    <li><a href="#nov2-8">11月2日–8日：住址登記全面上網（內閣 11/4 通過行政命令、預計 12/1 生效，所有登記機關須開放線上遷入與遷居登記，已接入約 3,800 個機關、需 BundID 與線上身分功能）、Schaeffler 再減 2,660 個職位並關閉德國四處據點（歐洲共減 3,460 個職位、原則上不做經營性解僱、2030 年起每年省 3 億歐元、董事會自減 10% 薪資，汽車業就業 69.15 萬人創 2005 年來新低）、油價上限法草案（須連三週高於其他歐盟國家平均 5 個百分點以上才啟動、每次最長 3 個月，bft 與 DGB 都批評；燃油稅減免 12/31 到期）、駕照改革通過（平均約 3,400 €，理論課可線上、特殊路況課不再規定 12 趟、親友可陪練，主要新規 2027/7/1 生效）、西巴爾幹工作名額減半（每年 5 萬降到 2.5 萬、2027 年起適用，營建業估少約 9,000 人）</a></li>
     <li><a href="#oct26-nov1">10月26日–11月1日：十一月新制（11/1 起歐盟外小包裹在 3 € 定額關稅之外每種商品再加收 2 € 處理費、11/20 起「先買後付」與 200 € 以下小額貸款須審查信用、德鐵家庭票常態化最多 5 人 IC／ICE 來回 99.99 €、汽車保險換約解約信須 11/30 前送達）、金屬電機業 11/1 起可發動警告性罷工（約 370 萬名員工，資方 10/27 首度出價 2027 年一次性給付與 2028 年 7 月調薪 1.3%，IG Metall 要求 12 個月加薪 5%）、賓士下修財測（第三季中國銷量年減 31%、轎車利潤率目標從 3–5% 降到 2–3%，12 月起再以資遣方案縮減數千個行政職位）、德日聯合聲明重申台海和平穩定（Merz 10/26–30 訪新加坡、日本、南韓，與高市早苗簽署關鍵原物料意向書；Steinmeier 同週國事訪問中國、促習近平縮減貿易順差）、景氣回溫（十月通膨初值降到 2.8%、第三季 GDP 季增 0.2%、ifo 景氣指數連升第六個月到 90.2 點）、核廢料最終處置場候選範圍縮到國土 5% 以下（BGE 10/27 公布、5 個邦完全出局、2027 年底提出候選區域）</a></li>
     <li><a href="#oct19-25">10月19日–25日：週日凌晨調回冬令時間（10/25 凌晨 3:00 撥回 2:00、台德時差變 7 小時，歐盟廢除案 2019 年起卡在理事會）、明年瓦斯費恐漲 10–20%（九月生產者物價年增 6.7% 為 2023 年 3 月以來最大、能源年增 14.9%，Verivox 預估 1 月起依方案調漲、年用 2 萬度家庭多付 250–500 €，基本供應調價須 11/20 前通知）、柏林擬將大房東約 16 萬戶收歸公有（柏林邦〔Berlin〕SPD 與綠黨 10/19 同意與左翼黨組閣談判，持有逾 1 萬戶的企業超出部分依基本法第 15 條轉為公有、補償金上限 160 億歐元，Vonovia 稱違憲）、福斯傳凍薪到 2030 年（《南德日報》10/19 披露、IG Metall 證實，全球約 66 萬名員工，公司不評論；金屬電機業和平義務 10/31 到期）、Bosch 汽車事業拆成子公司（10/22 宣布 Mobility 與三個中央服務單位改組為 4 家全資子公司、約 6.25 萬名在德員工 2027/8/1 移轉，不另外裁員）、45 年免扣減退休的育兒與照護年資恐不再採計（聯盟黨構想、SPD 反對，退休改革恐延到 2027 年）、菸稅漲價法因條文疏失 10/21 提前生效（海關暫不執行、菸價暫不變；2030 年一包約 11.78 €）、投資高峰會企業承諾約 2,300 億歐元（經濟部統計 2,286 億歐元、不少為舊案）</a></li>
     <li><a href="#oct12-18">10月12日–18日：健保附加保費 2027 年預估維持 2.9%（健保估算小組 10/14 公布，但各健保公司實際平均已達約 3.13%，調漲時可行使特別終止權）、早鳥退休金 10/16 三讀通過（國家從孩子 6 歲起每月存 10 €、合計 1,440 €，2020 年出生者最先納入，仍待聯邦參議院）、含糖飲料稅 10/14 過內閣（每 100 毫升含糖 5 公克以上每公升 26 歐分、8 公克以上 32 歐分，2027 年 7 月 1 日上路、稅收用於穩定健保）、BMW 自願離職方案開跑（2027 年底前全球縮約 8,000 個職位、據報約 4 萬名德國員工可查看方案；賓士傳 12 月重啟第二輪、福斯終止十份團體協約）、北溪管線爆炸案 10/14 在漢堡開審（烏克蘭籍被告 Serhij K.，辯方主張職務豁免）、聯邦國防軍衛勤團 10 人涉毒品與性不當行為遭調查（薩克森-安哈特邦〔Sachsen-Anhalt〕Weißenfels 駐地）</a></li>
@@ -1339,14 +1339,14 @@ const POSTS = [
   </ul>
 </nav>
 
-<h2 id="nov2-8">11月2日–8日：住址登記全面上網（內閣 11/4 通過行政命令、預計 12/1 生效，所有登記機關須開放線上遷入與遷居登記，已接入約 3,800 個機關）、Schaeffler 再減 2,660 個職位並關閉德國四處據點（歐洲共減 3,460 個職位、原則上不做經營性解僱、2030 年起每年省 3 億歐元，董事會自減 10% 薪資）、油價上限法草案出爐（須連續三週高於其他歐盟國家平均 5 個百分點以上才啟動、每次最長 3 個月，DGB 與加油站業者同聲批評）、駕照改革進入表決（平均花費約 3,400 €，理論課可線上、12 趟特殊路況課改為 3 趟、親友可陪練）、西巴爾幹工作名額減半（每年 5 萬降到 2.5 萬、2027 年起適用，營建業估少約 9,000 人）</h2>
-<p>這週有兩件和<strong>日常生活</strong>直接相關的行政改革：內閣 11 月 4 日通過命令，要求全國所有登記機關從 12 月起都得提供<strong>線上住址登記（Anmeldung）</strong>；聯邦議院則在 11 月 5 日表決<strong>駕照改革</strong>，目標是把平均約 3,400 € 的考照費用壓下來。<strong>汽車產業</strong>再傳裁員：供應商 Schaeffler 11 月 3 日宣布在德國再減 2,660 個職位、關閉四處據點，而聯邦統計局數據顯示，汽車業就業已降到 2005 年有統計以來最低。<strong>荷包方面</strong>，經濟部的《燃料最高價格法》草案曝光，但啟動門檻之高讓工會與業者都質疑它「幾乎不會生效」；眼前更有感的反而是燃油稅減免 12 月底到期。最後，內閣也不顧經濟界、聯邦勞動署與七個邦反對，把西巴爾幹國家的工作名額砍半。</p>
+<h2 id="nov2-8">11月2日–8日：住址登記全面上網（內閣 11/4 通過行政命令、預計 12/1 生效，所有登記機關須開放線上遷入與遷居登記，已接入約 3,800 個機關）、Schaeffler 再減 2,660 個職位並關閉德國四處據點（歐洲共減 3,460 個職位、原則上不做經營性解僱、2030 年起每年省 3 億歐元，董事會自減 10% 薪資）、油價上限法草案出爐（須連續三週高於其他歐盟國家平均 5 個百分點以上才啟動、每次最長 3 個月，DGB 與加油站業者同聲批評）、駕照改革通過（平均花費約 3,400 €，理論課可線上、特殊路況課不再規定 12 趟、親友可陪練）、西巴爾幹工作名額減半（每年 5 萬降到 2.5 萬、2027 年起適用，營建業估少約 9,000 人）</h2>
+<p>這週有兩件和<strong>日常生活</strong>直接相關的行政改革：內閣 11 月 4 日通過命令，要求全國所有登記機關從 12 月起都得提供<strong>線上住址登記（Anmeldung）</strong>；聯邦議院則在 11 月 5 日通過<strong>駕照改革</strong>，目標是把平均約 3,400 € 的考照費用壓下來。<strong>汽車產業</strong>再傳裁員：供應商 Schaeffler 11 月 3 日宣布在德國再減 2,660 個職位、關閉四處據點，而聯邦統計局數據顯示，汽車業就業已降到 2005 年有統計以來最低。<strong>荷包方面</strong>，經濟部的《燃料最高價格法》草案曝光，但啟動門檻之高讓工會與業者都質疑它「幾乎不會生效」；眼前更有感的反而是燃油稅減免 12 月底到期。最後，內閣也不顧經濟界、聯邦勞動署與七個邦反對，把西巴爾幹國家的工作名額砍半。</p>
 
 <img src="assets/images/2026/weekly/W45_圖卡1_住址登記全面上網.png" alt="德國住址登記全面上網 Elektronische Wohnsitzanmeldung 聯邦內閣2026年11月4日通過IT元件命令IT-Komponentenverordnung 預計12月1日生效 所有登記機關Meldebehörde須透過wohnsitzanmeldung.gov.de提供線上遷入與遷居登記 已接入約3800個登記機關 可服務約7420萬人 需BundID帳號與線上身分功能Online-Ausweis 系統由漢堡邦Hamburg開發 電子居留卡eAT 入住證明Wohnungsgeberbestätigung">
 <h3>住址登記全面上網：12 月 1 日起，各地登記機關都要提供線上 Anmeldung</h3>
 <p><strong>發生什麼事：</strong>搬家後兩週內要辦的住址登記（Anmeldung／Ummeldung），一直是在德生活最常碰到、也最難預約的行政手續之一。聯邦內閣 <strong>11 月 4 日</strong>通過由數位部長 Wildberger 提出的<strong>「IT 元件命令」（IT-Komponentenverordnung）</strong>，要求全國<strong>所有登記機關（Meldebehörde）</strong>都必須透過入口網站 <strong>wohnsitzanmeldung.gov.de</strong> 提供線上遷入與遷居登記。命令預計 <strong>12 月 1 日</strong>生效；因為是聯邦行政命令，不必經聯邦議院與聯邦參議院審議。</p>
 <p><strong>現在做到哪裡：</strong>這套系統由<strong>漢堡邦（Hamburg）</strong>開發，依各邦「一處開發、全國共用」（Einer für Alle）的分工推廣。漢堡邦政府 5 月公布時約 6,276 萬人可以使用；依這次的官方說法，系統已接入<strong>逾 3,800 個登記機關、可服務約 7,420 萬人</strong>。不過各地上線進度仍不一致，也有媒體引述入口網站資料，指仍有相當比例的登記機關尚未加入；命令生效後，何時真正「每一處都能用」，官方並未給出確切日期。最實際的做法是先到入口網站輸入新地址，查詢是否已經支援。</p>
-<p><strong>怎麼用、誰能用：</strong>線上辦理需要 <strong>BundID 帳號</strong>，並以證件晶片的<strong>線上身分功能（Online-Ausweis）</strong>驗證身分。德國身分證、歐盟公民的 eID 卡，以及非歐盟公民的<strong>電子居留卡（eAT）</strong>都有這項晶片功能，但需先啟用並設定 PIN 碼。換句話說，<strong>已經持有電子居留卡、在德國境內搬家的人</strong>最能受惠；<strong>剛入境、手上只有護照與簽證的人</strong>，多半仍須預約臨櫃辦理首次登記。此外，房東或屋主開立的<strong>入住證明（Wohnungsgeberbestätigung）</strong>是法定文件，線上辦理同樣不能少。</p>
+<p><strong>怎麼用、誰能用：</strong>線上辦理需要 <strong>BundID 帳號</strong>，並以證件晶片的<strong>線上身分功能（Online-Ausweis）</strong>驗證身分。德國身分證、歐盟公民的 eID 卡，以及非歐盟公民的<strong>電子居留卡（eAT）</strong>都有這項晶片功能，但需先啟用並設定 PIN 碼。柏林等地的說明已明列可用電子居留卡，但也有不少登記機關的說明只寫到身分證與 eID 卡，辦理前最好先確認新住址所屬的機關是否接受。換句話說，<strong>已經持有電子居留卡、在德國境內搬家的人</strong>最能受惠；<strong>剛入境、手上只有護照與簽證的人</strong>，多半仍須預約臨櫃辦理首次登記。此外，房東或屋主開立的<strong>入住證明（Wohnungsgeberbestätigung）</strong>是法定文件，線上辦理同樣不能少。</p>
 <p><strong>因應建議：</strong>住址登記會連動稅籍編號（Steuer-ID）寄送、銀行開戶與居留手續，線上化最大的好處是不必再搶預約名額。若打算年底前後搬家，可先確認電子居留卡的線上身分功能是否已啟用、PIN 是否還記得——忘記 PIN 多半得回發證機關重設，反而會多跑一趟。</p>
 <p class="post-sources">📚 來源：<a href="https://www.zdfheute.de/politik/deutschland/digitale-wohnsitzanmeldung-deutschland-100.html" target="_blank" rel="noopener noreferrer">ZDFheute：Kabinett: Bundesweite digitale Wohnsitzanmeldung beschlossen</a> · <a href="https://www.bundesregierung.de/breg-de/aktuelles/digitale-wohnsitz-anmeldung-2459770" target="_blank" rel="noopener noreferrer">聯邦政府：Kabinett ermöglicht bundesweit digitale Wohnsitzanmeldung</a> · <a href="https://www.presseportal.de/pm/175486/6384137" target="_blank" rel="noopener noreferrer">Presseportal：Elektronische Wohnsitzanmeldung – ein Dienst für alle</a> · <a href="https://www.hamburg.de/politik-und-verwaltung/behoerden/senatskanzlei/aktuelles/pressemeldungen/elektronische-wohnsitzanmeldung-fuer-75-prozent-der-bevoelkerung-verfuegbar-1171960" target="_blank" rel="noopener noreferrer">漢堡邦政府：Elektronische Wohnsitzanmeldung für 75 Prozent der Bevölkerung verfügbar</a></p>
 
@@ -1366,18 +1366,18 @@ const POSTS = [
 <p><strong>觀察重點：</strong>對開車族而言，比草案更近、更確定的是<strong>燃油稅減免到期</strong>：聯邦議院 9 月通過、10 月 1 日起每公升調降 14.04 分（含加值稅約 17 分）的減稅只適用到 <strong>12 月 31 日</strong>（見本站 <a href="#sep21-27">W39</a>），1 月起稅額就會回升。上一輪減稅時，柴油的降幅只有一部分真的反映在油價上；稅額回升時，漲價是否會「更完整」地轉嫁，值得留意。</p>
 <p class="post-sources">📚 來源：<a href="https://www.lto.de/recht/nachrichten/n/spritpreisdeckel-geplant-wirtschaftsministerium-reiche-kraftstoffhoechstpreisgesetz" target="_blank" rel="noopener noreferrer">LTO：Spritpreisdeckel – Erster Entwurf mit strengen Voraussetzungen</a> · <a href="https://www.auto-motor-und-sport.de/verkehr/spritpreisdeckel-ab-2027-das-sind-die-ersten-details-sie-sind-ernuechternd/" target="_blank" rel="noopener noreferrer">auto motor und sport：Spritpreisdeckel ab 2027 – die ersten Details</a> · <a href="https://www.tankstelle-magazin.de/bft-geplanter-spritpreisdeckel-wird-zum-buerokratiemonster/" target="_blank" rel="noopener noreferrer">tankstelle Magazin：bft – Spritpreisdeckel wird „zum Bürokratiemonster“</a> · <a href="https://www.autobild.de/artikel/kritik-am-gesetzesentwurf-zum-gedeckelten-spritpreis-28877561.html" target="_blank" rel="noopener noreferrer">AUTO BILD：Hält der „Spritpreisdeckel“, was er verspricht?</a></p>
 
-<img src="assets/images/2026/weekly/W45_圖卡4_駕照改革院會表決.png" alt="德國駕照改革Führerscheinreform 修正駕訓教練法Fahrlehrergesetz 聯邦議院交通委員會2026年11月4日通過修正版 11月5日院會表決 目前考駕照平均約3400歐元 部分地區約4500歐元 理論課可線上不必到班 法定特殊路況駕駛Sonderfahrten由12趟改為高速公路Autobahn郊區Überland夜間各一趟 不可用模擬器代替 親友陪練Laienausbildung限小客車 ADAC支持 駕訓教練協會質疑 AfD 綠黨Grüne 左翼黨Die Linke反對">
-<h3>駕照改革進入院會表決：平均 3,400 € 的考照費要降價，理論課可線上、親友可陪練</h3>
-<p><strong>為何要改：</strong>在德國考一張小客車（B 類）駕照，平均要花<strong>約 3,400 €</strong>，部分地區甚至達到約 4,500 €，對年輕人與新移民都是一筆大開銷。聯邦政府今年夏天通過《駕訓教練法》（Fahrlehrergesetz）等交通法規的修正草案（當時由前交通部長 Schnieder 提出，7 月內閣改組後由 Bilger 接任），目標是讓考照<strong>更便宜、更數位，同時維持安全</strong>，並減輕駕訓班的行政負擔。聯邦議院<strong>交通委員會 11 月 4 日</strong>以聯盟黨與 SPD 的票數通過修正版，<strong>11 月 5 日</strong>送院會表決；若聯邦議院與聯邦參議院的程序順利，新規最快 <strong>2027 年初</strong>上路。</p>
-<p><strong>主要改變：</strong>①<strong>理論課數位化</strong>：不必再到駕訓班現場上課，可改線上進行；路考時間也將縮短。②<strong>特殊路況駕駛（Sonderfahrten）大幅精簡</strong>：現行法定的 12 趟（郊區、高速公路、夜間）改為<strong>高速公路、郊區、夜間各一趟</strong>，且不能用模擬器代替；整體練車節數也不再由法律明訂。③<strong>親友陪練（Laienausbildung）</strong>：委員會修正後，由各邦建立條件，讓學員在嚴格規範下由父母等近親陪同上路練習，僅限小客車，並須評估成效。④<strong>價格透明</strong>：駕訓班須公開各分校的價格；原本要公開各駕訓班通過率的規定則在委員會被刪除。</p>
-<p><strong>各方觀點：</strong>ADAC 與貨運物流業公會支持草案；駕訓教練協會（Bundesvereinigung der Fahrlehrerverbände）副主席 Bartels 則表示，看不出政府「可省下 1,000 €」的算法從何而來，交通安全專家也對改革持保留態度。<strong>AfD、綠黨（Grüne）與左翼黨（Die Linke）</strong>在委員會投下反對票；AfD 另提「1 € 駕照」動議。改革是否真的讓價格下降、又不損及交通安全，委員會要求以學術研究追蹤。<em>（本文撰寫時院會尚未表決，結果請以聯邦議院公告為準。）</em></p>
-<p class="post-sources">📚 來源：<a href="https://www.bundestag.de/presse/hib/kurzmeldungen-1231170" target="_blank" rel="noopener noreferrer">聯邦議院 hib：Grünes Licht für Reform des Führerscheins</a> · <a href="https://www.bundestag.de/dokumente/textarchiv/2026/kw45-de-fahrlehrergesetz-1230606" target="_blank" rel="noopener noreferrer">聯邦議院：Abstimmung über Änderung des Fahrlehrergesetzes</a> · <a href="https://www.zdfheute.de/politik/deutschland/fuehrerschein-auto-kosten-schnieder-fahrschule-100.html" target="_blank" rel="noopener noreferrer">ZDFheute：Führerschein soll günstiger werden – das ist geplant</a> · <a href="https://www.t-online.de/finanzen/aktuelles/id_101513606/reform-im-bundestag-wird-der-fuehrerschein-guenstiger-.html" target="_blank" rel="noopener noreferrer">t-online：Reform im Bundestag – Wird der Führerschein günstiger?</a></p>
+<img src="assets/images/2026/weekly/W45_圖卡4_駕照改革通過.png" alt="德國駕照改革Führerscheinreform 修正道路交通法與駕訓教練法Fahrlehrergesetz 聯邦議院2026年11月5日通過 主要新規2027年7月1日生效 仍待聯邦參議院Bundesrat同意 目前考駕照平均約3400歐元 理論課可全程線上 路考駕駛時間縮短5分鐘 特殊路況駕駛Sonderfahrten不再規定12趟 由教練依學員程度決定 親友陪練Laienausbildung須考過理論並上滿6堂課 陪練者駕照滿7年 交通部長Bilger稱最多省1000歐元 駕訓教練協會認為不切實際 AfD 綠黨Grüne 左翼黨Die Linke反對">
+<h3>聯邦議院通過駕照改革：目標壓低平均 3,400 € 的考照費，主要新規 2027 年 7 月 1 日生效</h3>
+<p><strong>為何要改：</strong>在德國考一張小客車（B 類）駕照，平均要花<strong>約 3,400 €</strong>，部分地區甚至達到約 4,500 €，對年輕人與新移民都是一筆大開銷。聯邦政府今年夏天通過《駕訓教練法》（Fahrlehrergesetz）等交通法規的修正草案（當時由前交通部長 Schnieder 提出，7 月內閣改組後由 Bilger 接任），目標是讓考照<strong>更便宜、更數位，同時維持安全</strong>，並減輕駕訓班的行政負擔。聯邦議院<strong>交通委員會 11 月 4 日</strong>通過修正版後，院會於 <strong>11 月 5 日</strong>以聯盟黨與 SPD 的票數通過道路交通法與《駕訓教練法》的修正（改革的第一部分）。主要新規預計 <strong>2027 年 7 月 1 日</strong>生效，比原訂的 2027 年初晚半年；法律修正與交通部負責駕訓、考試細節的行政命令都還須<strong>聯邦參議院</strong>同意，改革的第二部分也還在後頭。</p>
+<p><strong>主要改變：</strong>①<strong>理論課數位化</strong>：不必再到駕訓班現場上課，可全程線上（例如用 App）學習，題庫也會縮減；B 類路考的駕駛時間從 30 分鐘減為 25 分鐘、整場考試從 55 分鐘減為 40 分鐘，以縮短排考等待。②<strong>特殊路況駕駛（Sonderfahrten）不再規定趟數</strong>：現行法定 12 趟、每趟 45 分鐘的郊區、高速公路與夜間駕駛仍要練，但<strong>不再有固定趟數</strong>，改由駕訓教練依學員程度判斷；這部分屬交通部的行政命令，須聯邦參議院同意。③<strong>親友陪練（Laienausbildung）</strong>：學員<strong>考過理論、在駕訓班上滿 6 堂課</strong>後，可由駕照滿 7 年、Flensburg 記點不超過 1 點、與學員關係密切的人（如父母）陪同上路練習，僅限小客車；但須<strong>各邦另訂命令</strong>才會實施，等於由 16 個邦各自決定要不要開放。④<strong>價格透明</strong>：駕訓班須公開各分校的價格；原本要公開各駕訓班通過率的規定則在委員會被刪除。</p>
+<p><strong>各方觀點：</strong>交通部長 Bilger（CDU）表示，學員可省下數百歐元、最好的情況可省到 1,000 €；ADAC 估計考照費最多可降三分之一。駕訓教練協會（Bundesvereinigung der Fahrlehrerverbände）的 Bartels 則認為，以目前的設計省 1,000 € 並不實際；SPD 議員 Reichardt 在院會也坦言，能便宜多少還看不出來；左翼黨（Die Linke）議員 Bosch 指出，車輛與營運成本、練車節數多、考不過重考等主要成本都沒有被處理。<strong>AfD、綠黨（Grüne）與左翼黨</strong>投下反對票。能省多少，很大程度取決於各邦在聯邦參議院如何修訂行政命令、以及駕訓班的實際定價；改革是否在降價之餘不損及交通安全，也將以學術研究追蹤。</p>
+<p class="post-sources">📚 來源：<a href="https://www.bundestag.de/presse/hib/kurzmeldungen-1231170" target="_blank" rel="noopener noreferrer">聯邦議院 hib：Grünes Licht für Reform des Führerscheins</a> · <a href="https://www.bundestag.de/dokumente/textarchiv/2026/kw45-de-fahrlehrergesetz-1230606" target="_blank" rel="noopener noreferrer">聯邦議院：Abstimmung über Änderung des Fahrlehrergesetzes</a> · <a href="https://www.zdfheute.de/politik/deutschland/fuehrerschein-auto-kosten-schnieder-fahrschule-100.html" target="_blank" rel="noopener noreferrer">ZDFheute：Führerschein soll günstiger werden – das ist geplant</a> · <a href="https://www.t-online.de/mobilitaet/aktuelles/id_101513606/fuehrerschein-reform-beschlossen-soviel-guenstiger-soll-er-werden.html" target="_blank" rel="noopener noreferrer">t-online：Führerschein-Reform beschlossen – soviel günstiger soll er werden</a> · <a href="https://www.tagesspiegel.de/wirtschaft/dpa-teure-fahrerlaubnis-bundestag-stimmt-reform-zu-wird-fuhrerschein-gunstiger-16243404.html" target="_blank" rel="noopener noreferrer">Tagesspiegel（dpa）：Bundestag stimmt Reform zu – wird Führerschein günstiger?</a></p>
 
 <img src="assets/images/2026/weekly/W45_圖卡5_西巴爾幹名額減半.png" alt="德國西巴爾幹規定Westbalkanregelung工作名額減半 聯邦內閣2026年11月4日通過勞動部長Schweitzer命令 每年核准上限由5萬降到2.5萬 2027年1月起適用 仍待聯邦參議院Bundesrat同意 適用阿爾巴尼亞 波士尼亞與赫塞哥維納 科索沃 蒙特內哥羅 北馬其頓 塞爾維亞 營建業估少約9000人 經濟團體 聯邦勞動署 七個邦反對 HDE 2025年名額用罄12月約1.8萬件申請被拒 2026年9月約54.6萬名六國公民在德就業">
 <h3>西巴爾幹工作名額減半：每年 5 萬降到 2.5 萬，經濟界、聯邦勞動署與七個邦都反對</h3>
 <p><strong>什麼是西巴爾幹規定：</strong>「西巴爾幹規定」（Westbalkanregelung）讓<strong>阿爾巴尼亞、波士尼亞與赫塞哥維納、科索沃、蒙特內哥羅、北馬其頓、塞爾維亞</strong>六國公民，只要有德國雇主的工作合約，就能<strong>不必具備德國認可的職業資格</strong>來德工作，是營建、餐旅、零售等產業重要的人力來源。聯邦內閣 <strong>11 月 4 日</strong>通過勞動部長 Schweitzer 提出的命令，把每年核准上限從 <strong>5 萬人降到 2.5 萬人</strong>，<strong>2027 年 1 月</strong>起適用；這項減半早已寫在聯盟黨與 SPD 的執政協議中。命令仍須<strong>聯邦參議院</strong>同意，最快 12 月審議；在修正生效前，仍適用 5 萬人的上限。</p>
 <p><strong>反對聲浪：</strong>依內閣提案資料，反對者包括主要經濟團體、國家法規審查委員會（Normenkontrollrat）、<strong>聯邦勞動署</strong>與<strong>七個邦</strong>。聯邦勞動署警告減半會加劇專業人力短缺；德國營建業總會（ZDB）估計，營建業將因此少掉<strong>近 9,000 名</strong>工人，要求撤回；零售業公會 HDE 則反向主張乾脆<strong>取消名額上限</strong>，並把申請流程數位化。</p>
-<p><strong>數據解讀：</strong>這套管道並非乏人問津——依聯邦勞動署資料，名額在 <strong>2025 年就已用罄</strong>，當年 12 月約 <strong>1.8 萬件</strong>申請被拒；今年 9 月，約 <strong>54.6 萬名</strong>六國公民在德國從事須繳社會保險的工作。雇主團體 BDA 則指出，另一個短期就業名額在 2025 年底仍有近 1 萬個沒用完，顯示不同管道的需求並不一致。依目前公布的內容，名額管控的是每年新核發的同意數；已在德國工作、持有效居留的人，宜留意續簽或換雇主時是否會受新上限影響。</p>
+<p><strong>數據解讀：</strong>這套管道並非乏人問津——依聯邦勞動署資料，名額在 <strong>2025 年就已用罄</strong>，當年 12 月約 <strong>1.8 萬件</strong>申請被拒；今年 9 月，約 <strong>54.6 萬名</strong>六國公民在德國從事須繳社會保險的工作。雇主團體 BDA 則指出，另一個短期就業名額在 2025 年底仍有近 1 萬個沒用完，顯示不同管道的需求並不一致。</p>
 <p class="post-sources">📚 來源：<a href="https://www.onvista.de/news/2026/11-04-bundesregierung-halbiert-westbalkan-kontingent-trotz-breiter-kritik-0-20-26572316" target="_blank" rel="noopener noreferrer">onvista（Reuters）：Bundesregierung halbiert Westbalkan-Kontingent trotz breiter Kritik</a> · <a href="https://www.handwerksblatt.de/betriebsfuehrung/bundeskabinett-beschliesst-westbalkan-regelung-zuwanderung-wird-halbiert" target="_blank" rel="noopener noreferrer">Handwerksblatt：Westbalkan-Regelung – Zuwanderung wird halbiert</a> · <a href="https://www.migazin.de/2026/10/18/westbalkanregelung-regierung-will-zuzug-halbieren/" target="_blank" rel="noopener noreferrer">MiGAZIN：Bundesregierung will Kontingent halbieren</a> · <a href="https://rheinland.hv-nrw.de/blog/2026/10/28/erfolgsmodell-westbalkanregelung-hde-warnt-vor-halbierung-des-kontingents/" target="_blank" rel="noopener noreferrer">Handelsverband NRW：HDE warnt vor Halbierung des Kontingents</a></p>
 
 <hr>

diff --git a/scripts/cardgen/make_weekly_cards.py b/scripts/cardgen/make_weekly_cards.py
@@ -2686,7 +2686,7 @@ DATE_RANGE = '2026/11/02-11/08'
 
 CARDS = [
  dict(
-  theme='#0D9488', badges=[('數位行政', True), ('居住登記', False)], illu='onlineregister',
+  theme='#0D9488', badges=[('數位行政', True), ('住址登記', False)], illu='onlineregister',
   title='住址登記全面上網：12/1 起各地都要提供',
   subtitle='內閣 11/4 通過行政命令，所有登記機關都須開放線上辦理遷入與遷居登記',
   stats=[('12/1', '命令預計生效日'),
@@ -2696,7 +2696,7 @@ CARDS = [
    ('法律性質', '屬聯邦行政命令，不必經國會審議；系統由漢堡邦（Hamburg）開發後推廣全國。'),
    ('涵蓋範圍', '官方稱已可服務約 7,420 萬人；各地進度不一，可先在入口網站查詢新地址。'),
   ],
-  takeaway=('因應建議', '剛入境、還沒拿到電子居留卡（eAT）的人多半仍須臨櫃；房東開的入住證明（Wohnungsgeberbestätigung）也不可少。'),
+  takeaway=('因應建議', '剛入境、還沒拿到電子居留卡（eAT）的人多半仍須臨櫃；房東開的入住證明（Wohnungsgeberbestätigung）不可少。'),
   file='W45_圖卡1_住址登記全面上網.png'),
  dict(
   theme='#C0392B', badges=[('汽車產業', True), ('人力縮編', False)], illu='bearing',
@@ -2726,17 +2726,17 @@ CARDS = [
   file='W45_圖卡3_油價上限法草案.png'),
  dict(
   theme='#2E8B57', badges=[('交通', True), ('駕照', False)], illu='steeringwheel',
-  title='駕照改革表決：平均 3,400 € 要降價',
-  subtitle='交通委員會 11/4 通過、聯邦議院 11/5 表決，順利的話 2027 年初上路',
+  title='駕照改革通過：目標壓低 3,400 € 考照費',
+  subtitle='聯邦議院 11/5 通過，主要新規 2027/7/1 生效，仍待聯邦參議院同意',
   stats=[('約 3,400 €', '目前考駕照的平均花費'),
-         ('12 → 3 趟', '法定特殊路況駕駛課')],
+         ('2027/7/1', '主要新規預計生效日')],
   bullets=[
-   ('理論數位化', '理論課不必再到駕訓班上，可改線上進行；路考時間也會縮短。'),
-   ('特殊駕駛', '現行 12 趟法定課程改為高速公路、郊區、夜間各一趟，且不可用模擬器代替；練車節數不再由法律規定。'),
-   ('親友陪練', '委員會修正：由各邦訂定條件，讓學員在嚴格規範下由父母等近親陪同上路練習（僅限小客車），並須評估成效。'),
+   ('理論數位化', '理論課可全程線上、不必到班；B 類路考駕駛時間從 30 分鐘減為 25 分鐘。'),
+   ('特殊駕駛', '郊區、高速公路、夜間駕駛不再規定 12 趟，改由教練依學員程度決定趟數。'),
+   ('親友陪練', '考過理論、上滿 6 堂課後，可由駕照滿 7 年的近親陪練；各邦須另訂命令才實施。'),
   ],
-  takeaway=('各方觀點', 'ADAC 支持；駕訓教練協會質疑「便宜 1,000 €」的算法；AfD、綠黨（Grüne）、左翼黨（Die Linke）在委員會投反對票。'),
-  file='W45_圖卡4_駕照改革院會表決.png'),
+  takeaway=('各方觀點', '交通部長 Bilger 稱最多可省 1,000 €，駕訓教練協會認為不切實際；AfD、綠黨（Grüne）與左翼黨（Die Linke）反對。'),
+  file='W45_圖卡4_駕照改革通過.png'),
  dict(
   theme='#7C3AED', badges=[('移民與就業', True), ('勞動市場', False)], illu='crane',
   title='西巴爾幹工作名額減半至 2.5 萬',
